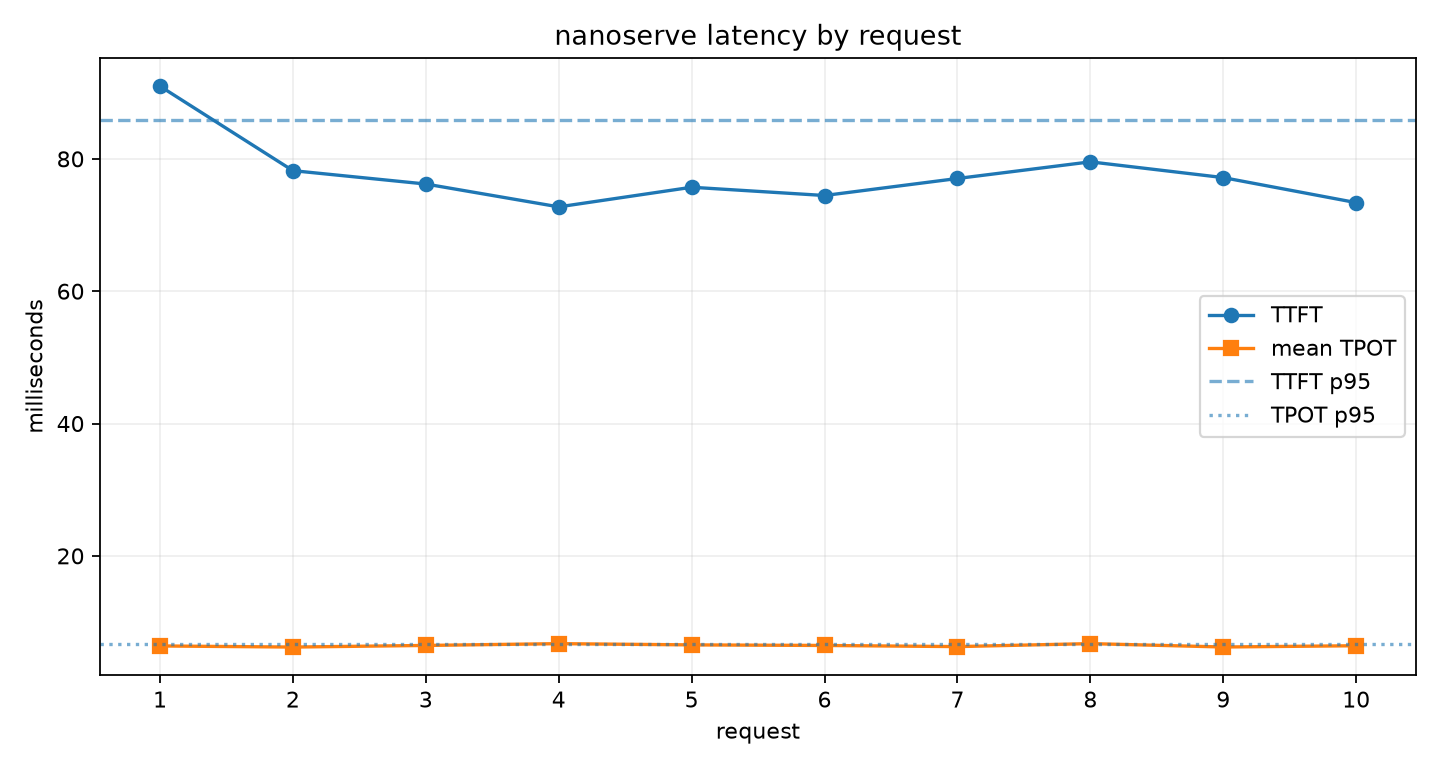
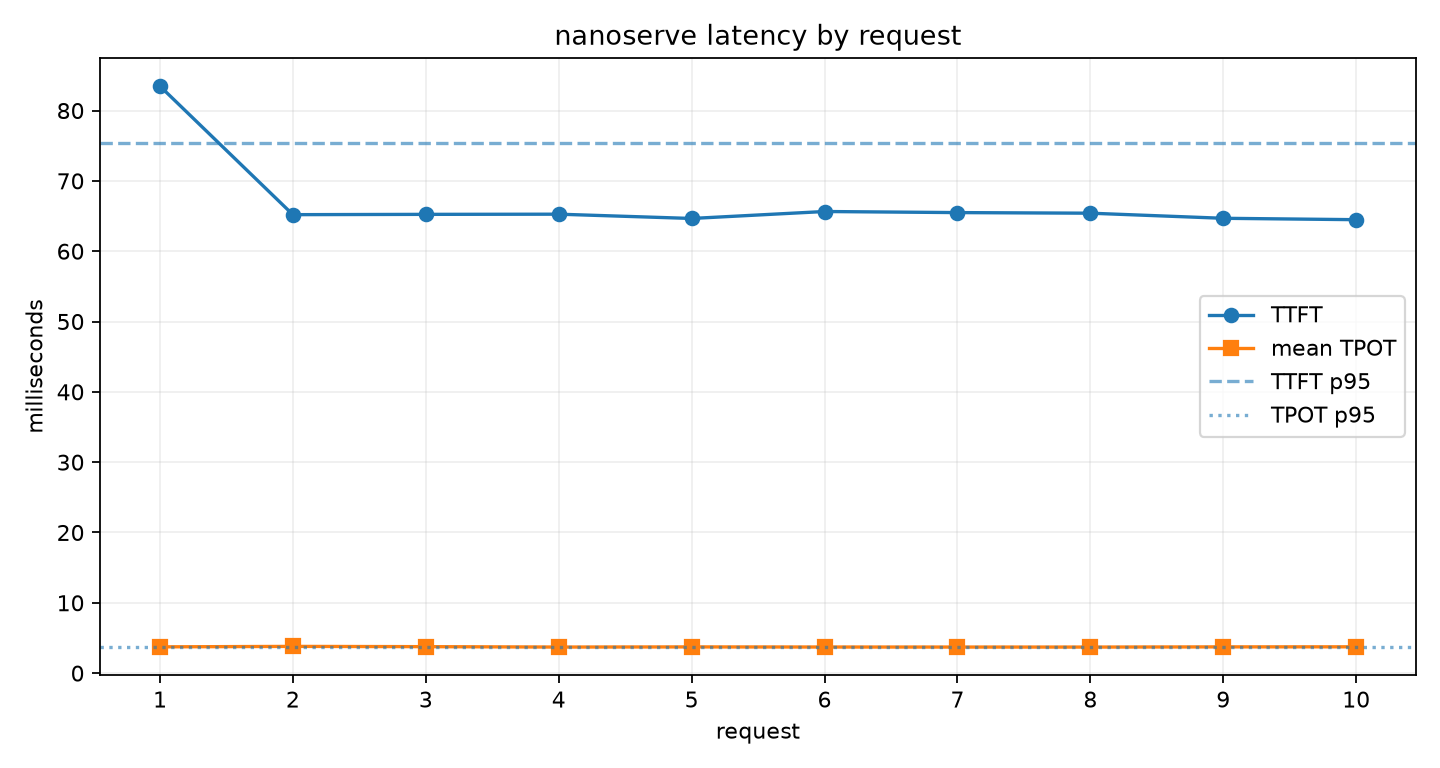
docs: publish decode optimization evidence

diff --git a/docs/performance_optimization.md b/docs/performance_optimization.md
@@ -1,0 +1,124 @@
+# Decode performance optimization
+
+This report records the optimization work performed on 2026-07-25. It includes
+the original baseline, isolated candidate measurements, accepted implementation,
+failed experiment, and final benchmark. Results are local measurements on one
+Apple M4 and are not claims about other machines or models.
+
+## Reproduction environment
+
+- Model: `mlx-community/Qwen2.5-0.5B-Instruct-4bit`
+- Python: 3.11.15
+- MLX: 0.32.0
+- MLX-LM: 0.31.3
+- Before commit: `89eccd0`
+- Optimized runtime commit: `7f790d7`
+- Sampling: greedy
+
+The standard latency benchmark used 10 requests and 32 output tokens. Cache
+results used five paired cold/warm runs with a 576-token reusable prefix. The
+MLX-LM comparison used five pairs in one loaded-model process and alternated
+measurement order. Raw percentile summaries and request rows are under
+`results/published/`.
+
+## Before and after
+
+| Metric | Before | After | Change |
+|---|---:|---:|---:|
+| TTFT p50 | 70.29 ms | 65.25 ms | 7.16% lower |
+| TPOT p50 | 4.72 ms | 3.73 ms | 20.90% lower |
+| end-to-end latency p50 | 212.66 ms | 186.42 ms | 12.34% lower |
+| nanoserve throughput p50 | 150.47 tok/s | 171.65 tok/s | 14.08% higher |
+| cache cold TTFT p50 | 242.71 ms | 245.98 ms | 1.35% higher |
+| cache warm TTFT p50 | 78.12 ms | 80.77 ms | 3.38% higher |
+
+In the final paired reference run, nanoserve measured 171.65 tok/s and
+`mlx_lm.generate` measured 165.55 tok/s. This is a result for this particular
+run, not evidence that nanoserve is universally faster than MLX-LM.
+
+## What changed
+
+The old loop completed one model forward, synchronously evaluated the sampled
+token and every cache array, converted the token on the CPU, yielded it, and
+only then constructed the next step.
+
+The optimized loop asynchronously schedules the current token. Before yielding
+it, the loop constructs and schedules the next one-token forward. Calling
+`item()` remains the synchronization boundary for the current token, so TTFT
+and TPOT timestamps still represent materialized token availability. CPU
+detokenization and response handling can overlap the next GPU step.
+
+Batch token paths now materialize their output tokens without separately
+requesting evaluation of every cache array. Evaluating the token already
+evaluates the model dependency graph that produced it.
+
+This follows the double-buffer pattern used by
+[MLX-LM 0.31.3 `generate_step`](https://github.com/ml-explore/mlx-lm/blob/v0.31.3/mlx_lm/generate.py).
+MLX documents both the fixed cost of excessive graph evaluation and the fact
+that scalar `item()` access evaluates an array in its
+[lazy-evaluation guide](https://ml-explore.github.io/mlx/build/html/usage/lazy_evaluation.html).
+
+## Candidate evaluation
+
+### `mx.async_eval` and double buffering: accepted
+
+An isolated 64-token decode probe improved from 214.76 to 269.23 tok/s, a
+25.37% increase. The full benchmark retained a smaller but still material
+14.08% throughput improvement and 20.90% lower TPOT.
+
+### Stop evaluating all cache arrays: accepted as part of the pipeline
+
+Changing only the evaluated outputs improved the isolated loop by 0.54%.
+Therefore this was not a large independent optimization, but it is the correct
+synchronization shape for double buffering.
+
+### Larger prefill blocks: tested and rejected
+
+For a 639-token isolated prefill, 512-token blocks reduced median time from
+192.40 to 178.64 ms, a 7.15% improvement. Blocks of 1024 and 2048 were slower
+than 64 on this workload, so the proposed 2–2.5x improvement did not reproduce.
+
+The complete cache benchmark exposed the decisive tradeoff. Moving the
+canonical block from 64 to 512 improved cold TTFT from 243.49 to 231.21 ms
+(5.04%), but reduced the reusable prefix from 576 to 512 tokens and regressed
+warm TTFT from 80.04 to 103.20 ms (28.93%). The candidate was reverted.
+
+### Cache checkout/return: rejected
+
+MLX's standard `KVCache` writes new keys and values into mutable backing arrays.
+Giving the stored object to a caller would make concurrent cache hits alias
+mutable request state. A safe copy-on-grow fork was also probed, but reduced
+median clone time only from 0.512 to 0.064 ms—an absolute 0.448 ms saving. Cache
+cloning was not the observed 78 ms warm-TTFT bottleneck.
+
+PagedAttention systems solve sharing with block-level ownership and
+copy-on-write rather than exclusive checkout; see the
+[PagedAttention paper](https://arxiv.org/abs/2309.06180).
+
+### Compile the whole decode step: deferred
+
+MLX compilation can fuse graph operations, but compiled functions are intended
+to be pure. Captured mutable state must be declared as input and output, while
+shape changes can cause recompilation. Nanoserve's cache objects mutate on each
+token, so wrapping the existing method in `mx.compile()` would not be a safe
+five-line optimization. See the
+[MLX compilation guide](https://ml-explore.github.io/mlx/build/html/usage/compile.html).
+
+## Correctness and limitations
+
+The optimized implementation passed 19 pure tests and five real-model
+integration tests. Those gates require exact equality with a serial greedy
+reference, cold/warm prefix token identity, streaming/completed text identity,
+and correct EOS completion.
+
+Before and after commands were run sequentially on the same machine, but they
+were not interleaved at the individual-request level. Thermal state and normal
+system noise can therefore affect the exact percentages. The MLX-LM comparison
+does alternate pair order. Re-run the commands below for current local results:
+
+```bash
+MPLCONFIGDIR=results/.mplconfig nanoserve bench --runs 10
+MPLCONFIGDIR=results/.mplconfig nanoserve cache --runs 5
+MPLCONFIGDIR=results/.mplconfig nanoserve baseline --runs 5
+pytest -o addopts='' -q -m integration
+```
